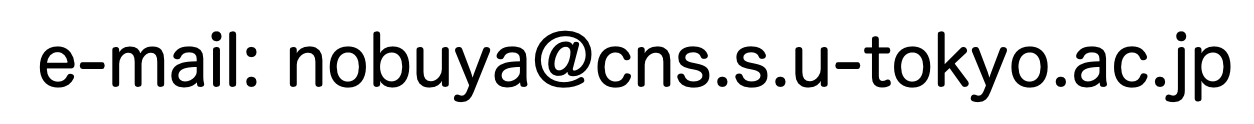
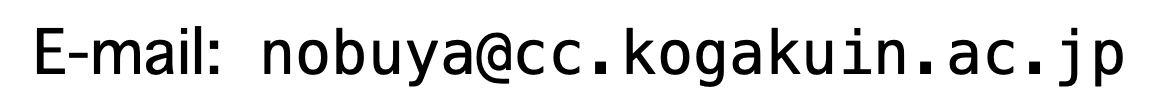
information

Changed region(s): [[0.031, 0.2455, 0.9931, 0.8455], [0.9, 0.2455, 0.9621, 0.3273]]

diff --git a/index.html b/index.html
@@ -20,7 +20,17 @@
     <h2>
       <a href="https://www.kogakuin.ac.jp/english/at_kgu/support.html">Academic Support Center</a>, <a href='https://www.kogakuin.ac.jp/english/'>Kogakuin University</a>
       <br><br>
-<a href="https://www.kogakuin.ac.jp/student/campuslife/gscenter.html">学習支援センター</a>, <a href='https://www.kogakuin.ac.jp/'>工学院大学</a>
+      <a href='https://www.kogakuin.ac.jp/'>工学院大学</a>,
+      <a href='https://www.kogakuin.ac.jp/faculty/edu/education.html#2'>教育支援機構</a>,
+      <a href="https://www.kogakuin.ac.jp/student/campuslife/gscenter.html">学習支援センター</a>
+    </h2>
+
+    <h2>
+    <br>
+    東京都八王子市中野町2665-1
+    <br>
+    2665-1 Nakano-machi, Hachioji, Tokyo, Japan
+    <br>
     </h2>
 
     <img src="./fig/email.png" width=400>